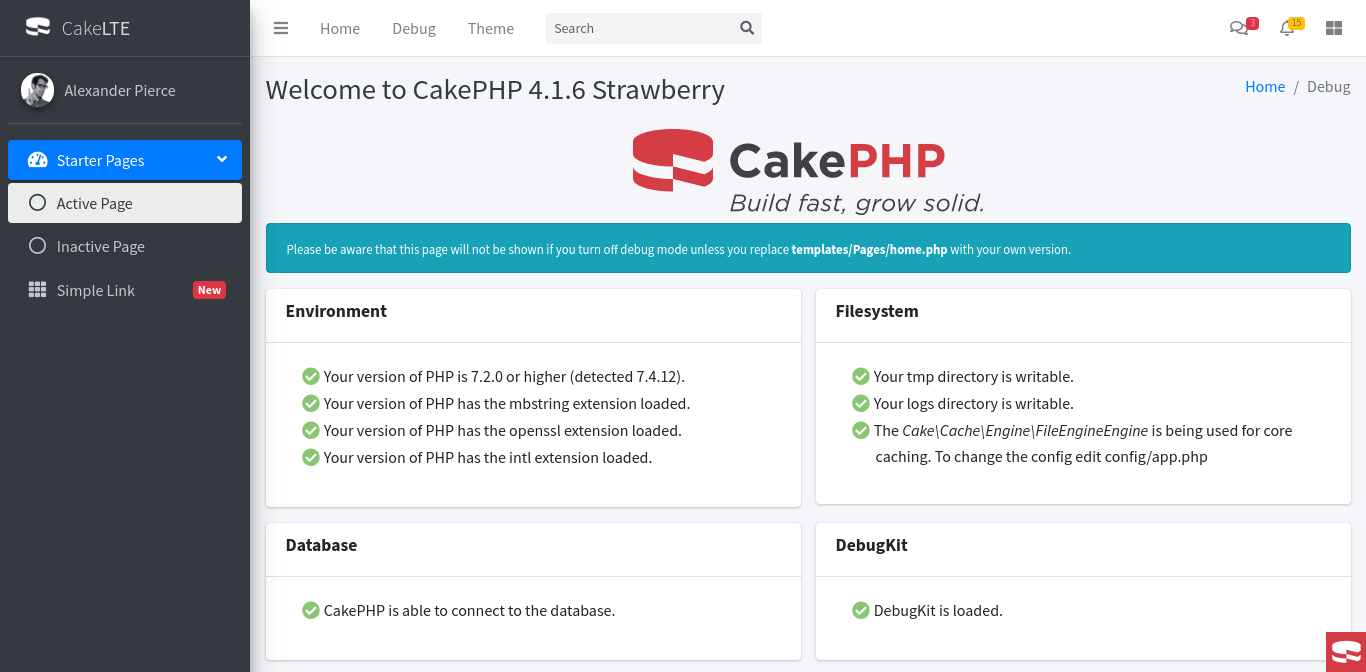
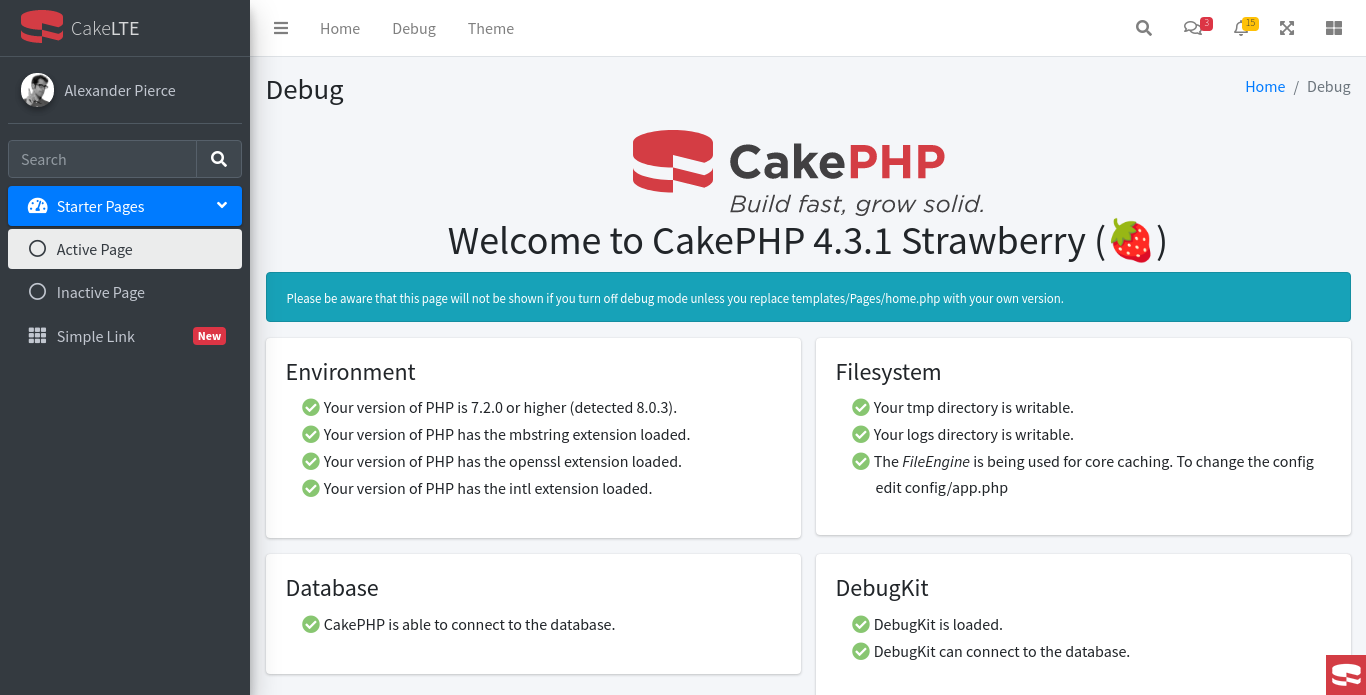
update readme

diff --git a/README.md b/README.md
@@ -1,6 +1,13 @@
 # CakeLTE: AdminLTE plugin for CakePHP 4.x
 
-## Installation
+## Getting Started
+
+### Dependencies
+
+- [FriendsOfCake/bootstrap-ui](https://github.com/FriendsOfCake/bootstrap-ui), transparently use Bootstrap 4 with CakePHP 4.
+- [AdminLTE 3.1.0](https://adminlte.io/), bootstrap 4 admin theme.
+
+### Installing
 
 You can install this plugin into your CakePHP application using [composer](https://getcomposer.org).
 
@@ -9,11 +16,6 @@ The recommended way to install composer packages is:
 ```bash
 composer require arodu/cakelte
 ```
-
-## Dependencies
-
-- [FriendsOfCake/bootstrap-ui](https://github.com/FriendsOfCake/bootstrap-ui), transparently use Bootstrap 4 with CakePHP 4.
-- [AdminLTE 3.1.0](https://adminlte.io/), bootstrap 4 admin theme.
 
 ## Configuration
 
@@ -77,8 +79,28 @@ Inpunt options:
 ```php
   //initializeCakeLte() \$options
   [
-    'appName' => 'Cake<b>LTE</b>', // [string] default='Cake<b>LTE</b>'
-    'appLogo' => 'CakeLte.cake.icon.png', // [string] default='CakeLte.cake.icon.png'
+    'app-name' => 'Cake<b>LTE</b>',
+    'app-logo' => 'CakeLte.cake.icon.svg',
+    'small-text' => false,
+    'dark-mode' => false,
+    'layout-boxed' => false,
+    'header.fixed' => false,
+    'header.border' => true,
+    'header.style' => \CakeLte\View\Styles\Header::STYLE_WHITE,
+    'header.dropdown-legacy' => false,
+    'sidebar.fixed' => true,
+    'sidebar.collapsed' => false,
+    'sidebar.mini' => true,
+    'sidebar.mini-md' => false,
+    'sidebar.mini-xs' => false,
+    'sidebar.style' => \CakeLte\View\Styles\Sidebar::STYLE_DARK_PRIMARY,
+    'sidebar.flat-style' => false,
+    'sidebar.legacy-style' => false,
+    'sidebar.compact' => false,
+    'sidebar.child-indent' => false,
+    'sidebar.child-hide-collapse' => false,
+    'sidebar.disabled-auto-expand' => false,
+    'footer.fixed' => false,
   ];
 ```
 
@@ -94,6 +116,8 @@ Options layouts
 bin/cake bake all [command] -t CakeLte
 
 bin/cake bake template [command] -t CakeLte login
+bin/cake bake template [command] -t CakeLte register
+bin/cake bake template [command] -t CakeLte recovery
 ```
 
 ### To modify the template you can copy one or all the files within your project
@@ -104,20 +128,21 @@ Replace the files elements
   - `src/templates/layout/default.php`
   - `src/templates/layout/login.php`
   - `src/templates/layout/top-nav.php`
-- Content info
-  - `src/templates/element/content/breadcrumb.php`
+- Content
   - `src/templates/element/content/header.php`
 - Header navbar
   - `src/templates/element/header/main.php`
   - `src/templates/element/header/menu.php`
   - `src/templates/element/header/messages.php`
   - `src/templates/element/header/notifications.php`
-  - `src/templates/element/header/search.php`
+  - `src/templates/element/header/search-default.php`
+  - `src/templates/element/header/search-block.php`
 - Footer
   - `src/templates/element/footer/main.php`
 - Left sidebar
   - `src/templates/element/sidebar/main.php`
   - `src/templates/element/sidebar/menu.php`
+  - `src/templates/element/sidebar/search.php`
   - `src/templates/element/sidebar/user.php`
 - Right sidebar
   - `src/templates/element/aside/main.php`
@@ -132,6 +157,10 @@ echo $this->Html->link(__('CakeLTE debug page'), '/cake_lte/debug' );
 // {your-url}/cake_lte/debug
 ```
 
-![Page Debug with starter layout](docs/page-debug_default.png)
+![Page Debug with default layout](docs/page-debug_default.png)
 
 ![Page Debug with top-nav layour](docs/page-debug_top-nav.png)
+
+## License
+
+This project is licensed under the MIT License - see the [LICENSE](LICENSE) file for details
